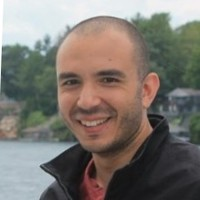
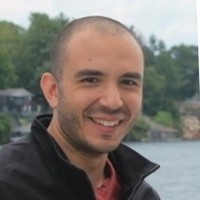
1
1

diff --git a/index.html b/index.html
@@ -56,8 +56,8 @@
 		<a href="#" class="js-colorlib-nav-toggle colorlib-nav-toggle" data-toggle="collapse" data-target="#navbar" aria-expanded="false" aria-controls="navbar"><i></i></a>
 		<aside id="colorlib-aside" role="complementary" class="border js-fullheight">
 			<div class="text-center">
-				<div class="author-img" style="background-image: url(images/about.jpg);"></div>
-				<h1 id="colorlib-logo"><a href="index.html">Ahmed Bakkar</a></h1>
+				<div class="author-img" style="background-image: url(images/about2.jpg);"></div>
+				<h1 id="colorlib-logo"><a href="index.html"> Ahmed Bakkar</a></h1>
 				<span class="position">Postdoctoral Fellow</br>
 				                       <a href="https://www.cfdlab.mcgill.ca/" target="_blank">CFD Lab, McGill University</a></span>
 				<p><a href="https://www.linkedin.com/in/aebakkar/" target="_blank"><i class="icon-linkedin2"></i></a></p>
@@ -117,9 +117,8 @@ Copyright&copy; <script>document.write(new Date().getFullYear());</script> All r
 							<div class="row row-bottom-padded-sm animate-box" data-animate-effect="fadeInLeft">
 								<div class="col-md-12">
 									<div class="about-desc">
-										<span class="heading-meta">About Us</span>
-										<h2 class="colorlib-heading">Who Am I?</h2>
-										<p><strong>Hi I'm Jackson Ford</strong> On her way she met a copy. The copy warned the Little Blind Text, that where it came from it would have been rewritten a thousand times and everything that was left from its origin would be the word "and" and the Little Blind Text should turn around and return to its own, safe country.</p>
+										<h2 class="colorlib-heading">About Me</h2>
+										<p><strong>Hello! I'm Jackson Ford</strong> On her way she met a copy. The copy warned the Little Blind Text, that where it came from it would have been rewritten a thousand times and everything that was left from its origin would be the word "and" and the Little Blind Text should turn around and return to its own, safe country.</p>
 										<p>Even the all-powerful Pointing has no control about the blind texts it is an almost unorthographic life One day however a small line of blind text by the name of Lorem Ipsum decided to leave for the far World of Grammar.</p>
 									</div>
 								</div>

diff --git a/css/style.css b/css/style.css
@@ -336,7 +336,7 @@ figure {
             border: 1px solid #000;
             background: transparent !important; }
             #colorlib-hero .flexslider .slider-text > .slider-text-inner .btn.btn-learn:hover {
-              background: #FFFFFF !important;
+              background: transparent !important;
               border: 1px solid #000 !important; }
           @media screen and (max-width: 768px) {
             #colorlib-hero .flexslider .slider-text > .slider-text-inner .btn {
